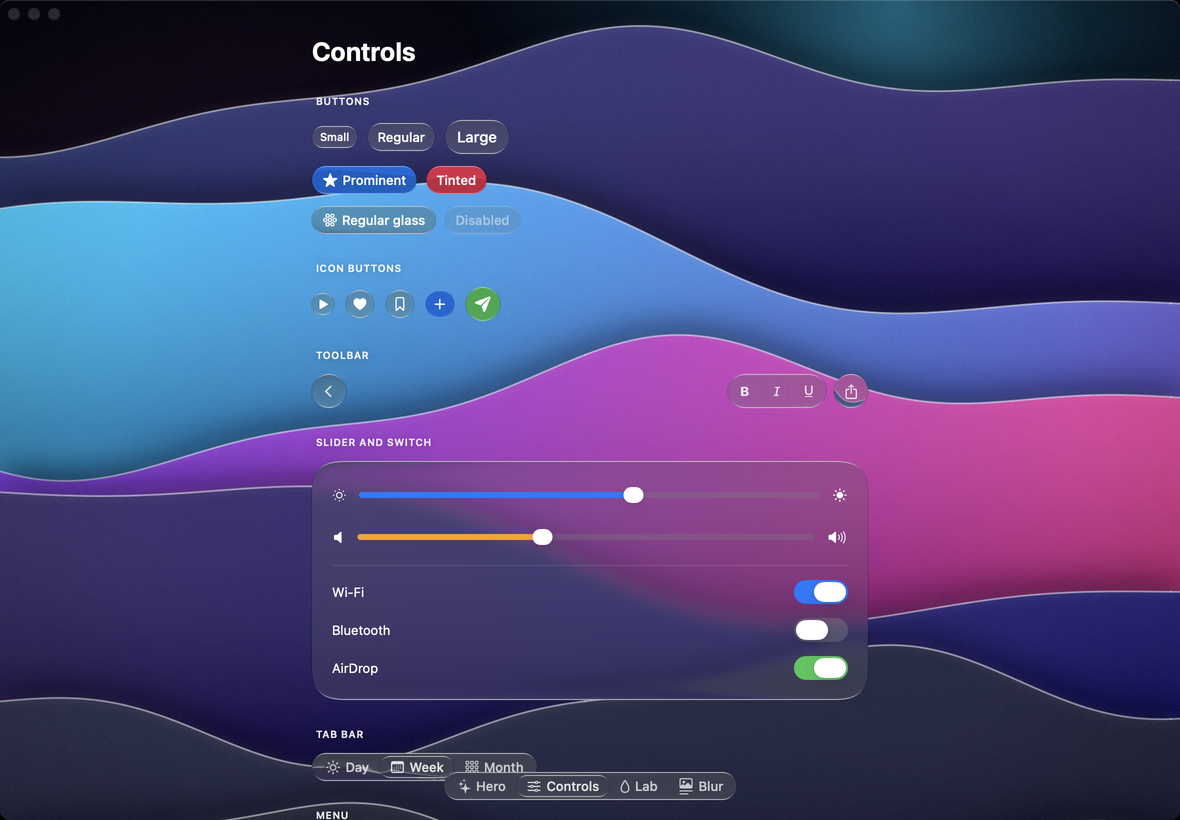
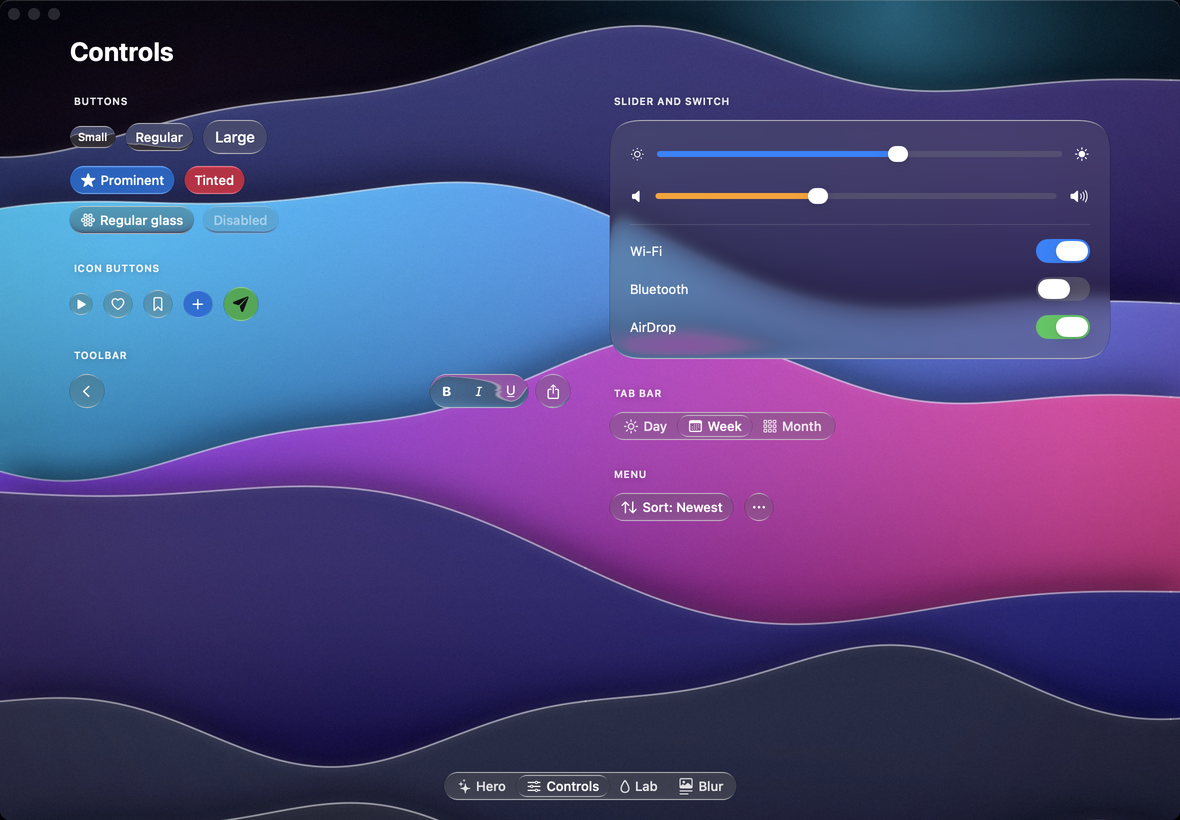
Docs: the Apple guide covers the new GlassButton options, labels on tinted glass, checked and disabled menu items, tab lenses of the bar's material, scrolls through sliders and tab bars, labelsHidden, right to left, keyboard scrolling, 120 Hz on ProMotion iPhones, animated sizes, device signing and 

diff --git a/docs/apple.md b/docs/apple.md
@@ -144,11 +144,11 @@ Label("Now Playing", systemImage: "music.note")
 | `appearance` | scene's (`.automatic`) | `.automatic`, `.light`, `.dark` |
 | `radius` | `16` | points, `.capsule` or `.circle` |
 | `refraction` | scene's (`60`) | optical travel at the rim, points |
-| `tint` | none | colors the glass, never the content |
+| `tint` | none | colors the glass; the content's default foreground turns white or `#111113`, whichever contrasts more |
 | `interactive` | `false` | press grow, drag stretch, glow |
 | `motion` | scene's (`.full`) | `.full`, `.reduced`, `.none` |
 
-Content draws above the glass, clipped to the outline, in the glass's foreground color (`#111113` on light glass, white on dark). Interactive surfaces grow under a press, stretch toward a drag with constant volume, settle with a gel-like overshoot and light up under the finger (and under the pointer on macOS and iPad). Surfaces you move yourself (with `.offset`, a `DragGesture`, layout changes or SwiftUI animations) keep refracting exactly what is under them.
+Content draws above the glass, clipped to the outline, in the glass's foreground color (`#111113` on light glass, white on dark; on tinted glass white or `#111113`, whichever has the higher contrast with the tinted glass). A `foregroundStyle` you set inside wins. Interactive surfaces grow under a press, stretch toward a drag with constant volume, settle with a gel-like overshoot and light up under the finger (and under the pointer on macOS and iPad). Surfaces you move yourself (with `.offset`, a `DragGesture`, layout changes or SwiftUI animations) keep refracting exactly what is under them, and a surface that SwiftUI animates to a new size (`withAnimation`, `.animation(_:value:)`) carries its outline and rim along the content's animated frame; without an animation the glass takes the new size at once, like the content.
 
 ### GlassButton
 
@@ -156,10 +156,15 @@ Content draws above the glass, clipped to the outline, in the glass's foreground
 GlassButton("Play", systemImage: "play.fill") { play() }
 GlassButton(icon: "plus", label: "Add") { add() }                 // icon-only circle
 GlassButton("Buy", prominent: true) { buy() }                     // accent-tinted glass, white label
-GlassButton("Delete", tint: .red) { delete() }
+GlassButton("Delete", systemImage: "trash", role: .destructive) { delete() }  // red label
+GlassButton("Warning", tint: .yellow) { }                         // dark label on light tints
 GlassButton("Frosted", material: .regular) { }
+GlassButton("Static", interactive: false) { }                     // no grow, stretch or glow
+GlassButton(icon: "xmark", label: name) { close() }               // a String label works too
 GlassButton(radius: 12, action: { }) { Text("Custom label") }     // any label, any outline
 ```
+
+Every initializer takes `role`, `material`, `appearance`, `refraction`, `tint`, `prominent`, `interactive` (default `true`) and `motion`; `nil` inherits from the scene.
 
 Sizes follow `controlSize`:
 
@@ -169,7 +174,7 @@ GlassButton("Regular") { }                        // 44 pt, 28 pt
 GlassButton("Large") { }.controlSize(.large)     // 52 pt, 34 pt
 ```
 
-Heights scale with Dynamic Type. Labels are 17 pt semibold on iOS and 13 pt medium on macOS. Icon-only buttons are circles whose title becomes the VoiceOver label and the macOS tooltip. A `GlassButton` is a SwiftUI `Button`, so `.disabled`, `.keyboardShortcut`, roles and focus work as usual.
+Heights scale with Dynamic Type. Labels are 17 pt semibold on iOS and 13 pt medium on macOS. On tinted and prominent glass the label is white or `#111113`, whichever has the higher WCAG contrast with the tinted glass: white on blue, red or purple, dark on yellow, mint or green. A destructive button draws an untinted label in red. Icon-only buttons are circles whose title becomes the VoiceOver label and the macOS tooltip. A `GlassButton` is a SwiftUI `Button`, so `.disabled`, `.keyboardShortcut`, roles and focus work as usual.
 
 ### GlassToolbar and GlassToolbarSpacer
 
@@ -184,7 +189,7 @@ GlassToolbar {
 }
 ```
 
-Each cluster sits on its own capsule (52 pt tall with a 4 pt inset on iOS, 34 and 3 on macOS). Buttons and menus inside a toolbar drop their own glass and highlight with the foreground color at 8% when pressed, hovered or focused; pressing anywhere on a cluster grows it and lights it under the finger. `GlassToolbar(material:appearance:tint:interactive:motion:)`.
+Each cluster sits on its own capsule (52 pt tall with a 4 pt inset on iOS, 34 and 3 on macOS). Buttons and menus inside a toolbar drop their own glass and highlight with the foreground color at 8% when pressed, hovered or focused; pressing anywhere on a cluster grows it and lights it under the finger. Items take the toolbar's foreground (and, under a forced `appearance`, its color scheme; on a `tint`, white or dark for contrast). At the largest text sizes the bar stops growing and a long press shows an item in the Large Content Viewer. Right to left, the clusters mirror with their items. `GlassToolbar(material:appearance:tint:interactive:motion:)`.
 
 ### GlassTabBar
 
@@ -199,7 +204,7 @@ GlassTabBar(selection: $page) {
 }
 ```
 
-A clear glass lens slides to the selected tab on the track spring and stretches with its speed; drag across the bar to carry the lens and release to choose the tab under it. On iOS the bar is 62 pt tall with icon and label, the selected item takes the accent color and labels stop growing at the largest text sizes (the Large Content Viewer shows them). `.controlSize(.small)` makes a compact, segmented-style bar (40 pt on iOS, 24 pt on macOS). On macOS the bar is 28 pt tall with labels, unselected labels at 85% and the arrow keys move the selection. Haptic selection feedback plays on change.
+A glass lens of the bar's own material (so a Regular bar stays frosted under the selection) slides to the selected tab on the track spring and stretches with its speed; drag across the bar to carry the lens and release to choose the tab under it. On touch screens the lens follows a finger only once it moves sideways, so a vertical swipe that starts on the bar still scrolls an enclosing scroll view. On iOS the bar is 62 pt tall with icon and label, the selected item takes the accent color, the bar and its labels stop growing at the largest text sizes (the Large Content Viewer shows them) and the bar carries the tab bar accessibility trait. `.controlSize(.small)` makes a compact, segmented-style bar (40 pt on iOS, 24 pt on macOS). On macOS the bar is 28 pt tall with labels, unselected labels at 85%, it draws a focus ring when it has keyboard focus and the arrow keys move the selection (in visual order, right to left too). Haptic selection feedback plays on change. `GlassTabBar(selection:material:appearance:tint:interactive:motion:)`.
 
 ### GlassSlider
 
@@ -210,7 +215,7 @@ GlassSlider(value: $volume, in: 0...100) { Text("Volume") }
 GlassSlider(value: $volume, in: 0...100, step: 10, tint: .orange) { Text("Volume") }
 ```
 
-The thumb is an opaque white capsule at rest and lifts into clear glass while held (20 × 16 pt growing 2.5 × 2 pt per side with refraction 5 on macOS; 36 × 24 pt on iOS for touch). The lifted lens refracts the track and fill beneath it and stretches along the track with its speed. Press anywhere on the track to jump there and keep dragging. Stepped sliders play a selection haptic per step. VoiceOver sees a standard adjustable slider (`accessibilityRepresentation`), and on macOS the arrow keys adjust it when focused. `onEditingChanged` reports drags.
+The thumb is an opaque white capsule at rest and lifts into clear glass while held (20 × 16 pt growing 2.5 × 2 pt per side with refraction 5 on macOS; 36 × 24 pt on iOS for touch). The lifted lens refracts the track and fill beneath it and stretches along the track with its speed. Press anywhere on the track to jump there and keep dragging; on touch screens a drag starts once the finger moves sideways, so a vertical swipe that starts on a slider scrolls the page and leaves the value alone. Stepped sliders play a selection haptic per step. VoiceOver sees a standard adjustable slider (`accessibilityRepresentation`), and on macOS the arrow keys adjust it when focused. `onEditingChanged` reports drags.
 
 ### GlassSwitch
 
@@ -222,7 +227,7 @@ GlassSwitch("AirDrop", isOn: $airdrop, tint: .green)
 Toggle("Bluetooth", isOn: $bluetooth).toggleStyle(GlassSwitchStyle())
 ```
 
-Tap to toggle or drag the thumb across. The thumb travels on the measured switch spring (response 0.47 s, damping 0.7) and lifts into clear glass while held (32 × 20 pt in a 54 × 24 pt track, growing 9 × 5.5 pt per side with refraction 7.75 on macOS; 37 × 24 in 63 × 28 on iOS). The track takes `tint` (the accent color by default) when on. It's a `Toggle`, so VoiceOver, `labelsHidden()` and focus work as usual; Space toggles it on macOS.
+Tap to toggle or drag the thumb across. The thumb travels on the measured switch spring (response 0.47 s, damping 0.7) and lifts into clear glass while held (32 × 20 pt in a 54 × 24 pt track, growing 9 × 5.5 pt per side with refraction 7.75 on macOS; 37 × 24 in 63 × 28 on iOS). The track takes `tint` (the accent color by default) when on. It's a `Toggle`, so VoiceOver and focus work as usual; Space toggles it on macOS. On iOS 18 and macOS 15, `labelsHidden()` hides the label (it stays the VoiceOver label) and the switch hugs its track; iOS 17 and macOS 14 don't tell toggle styles about hidden labels, so there the label still shows (leave the title empty and set `accessibilityLabel` instead).
 
 ### GlassMenu
 
@@ -234,12 +239,19 @@ GlassMenu("Sort", systemImage: "arrow.up.arrow.down") {
     GlassMenuItem("Reset", systemImage: "trash", role: .destructive) { reset() }
 }
 
-GlassMenu(icon: "ellipsis", label: "More") { … }   // icon-only trigger
+GlassMenu(icon: "ellipsis", label: "More") { … }   // icon-only trigger, the icon button circle
+
+GlassMenu("Appearance", systemImage: "circle.lefthalf.filled") {
+    GlassMenuItem("Light", checked: appearance == .light) { appearance = .light }
+    GlassMenuItem("Dark", checked: appearance == .dark) { appearance = .dark }
+    GlassMenuItem("Export…", systemImage: "square.and.arrow.up") { export() }
+        .disabled(!canExport)
+}
 ```
 
 ![A Regular glass menu grown out of its trigger](images/apple/ios-menu.png)
 
-The trigger is a `GlassButton`. Opening morphs the trigger's glass into a Regular glass panel (radius 28) on the morph spring while the items condense out of a blur; closing reverses it. The panel opens below the trigger with trailing edges aligned, flips above when there is no room and stays inside the scene. Items highlight with the foreground color at 8%. Tap outside, press Escape, or choose an item to dismiss; the up and down arrows and Return navigate. The panel draws in the scene's overlay, above the rest of the foreground. Outside a `GlassScene`, `GlassMenu` falls back to the system `Menu` with the same items.
+The trigger is a `GlassButton` (an icon-only trigger is the 44 pt circle on iOS, 28 pt on macOS); `appearance` and `tint` apply to the trigger and the panel. Items with `checked:` reserve a leading column and draw a checkmark when `true` (VoiceOver reads them as selected); disabled items dim and the arrow keys skip them. Opening morphs the trigger's glass into a Regular glass panel (radius 28) on the morph spring while the items condense out of a blur; closing reverses it. The panel opens below the trigger with trailing edges aligned, flips above when there is no room and stays inside the scene. Items highlight with the foreground color at 8%. Tap outside, press Escape, or choose an item to dismiss; the up and down arrows and Return navigate. The panel draws in the scene's overlay, above the rest of the foreground. Outside a `GlassScene`, `GlassMenu` falls back to the system `Menu` with the same items.
 
 ### GlassProgressiveBlur
 
@@ -275,7 +287,7 @@ GlassContent {
 GlassButton(icon: "arrow.up", label: "Top") { scroll.scrollTo(edge: .top) }
 ```
 
-A scroll view drawn entirely by SwiftUI, so glass can refract it. On iOS it scrolls with a drag, decelerates like `UIScrollView` (× 0.998 per millisecond) and rubber-bands past the ends with `GlassOptics.rubberBand`, settling back on a critically damped spring. On macOS it follows the trackpad (with the system's momentum) and the mouse wheel. `GlassScrollPosition` is `@Observable`: read `offset`, `contentSize`, `viewportSize` and `isScrolling`, or call `scrollTo(_:animated:)` and `scrollTo(edge:animated:)`. The position must live outside the content (in `@State` next to the scene) because every copy of the backdrop reads it. VoiceOver's three-finger scroll works. Content is laid out at its ideal length along the scrolling axes, so `LazyVStack` renders every row.
+A scroll view drawn entirely by SwiftUI, so glass can refract it. On iOS it scrolls with a drag, decelerates like `UIScrollView` (× 0.998 per millisecond) and rubber-bands past the ends with `GlassOptics.rubberBand`, settling back on a critically damped spring. On macOS it follows the trackpad (with the system's momentum) and the mouse wheel, takes only its own window's wheel events (an AppKit scroll view or text view in front scrolls itself), and once it has focus scrolls with the arrow keys, Page Up and Down, Space (Shift-Space up), Home and End. `GlassScrollPosition` is `@Observable`: read `offset`, `contentSize`, `viewportSize` and `isScrolling`, or call `scrollTo(_:animated:)` and `scrollTo(edge:animated:)`. The position must live outside the content (in `@State` next to the scene) because every copy of the backdrop reads it. VoiceOver's three-finger scroll works. Content is laid out at its ideal length along the scrolling axes, so `LazyVStack` renders every row.
 
 ### GlassShape
 
@@ -317,25 +329,26 @@ VStack { … }
 - **Appearance.** `.automatic` follows the color scheme. `.light` and `.dark` force the tone curves and rim strength, and set the content's color scheme, so `.primary` and `.secondary` adapt.
 - **Radius.** Numbers are continuous-corner radii; `.capsule` and `.circle` round fully.
 - **Refraction.** Points of optical travel at the rim; 0 turns refraction off. Small controls (shorter than the 20 pt bevel) refract across their whole face.
-- **Tint.** Colored glass transmits the backdrop's luminance through the pigment. Tinted buttons draw white labels. On sliders and switches, `tint` colors the fill and track.
-- **Motion.** `.full`, `.reduced` (no grow, stretch or overshoot; the light still fades) and `.none` (no transitions). The system Reduce Motion setting always applies on top.
-- **Foreground.** Text and icons on glass default to `#111113` (light) and white (dark); set your own `foregroundStyle` inside a surface to override.
+- **Tint.** Colored glass transmits the backdrop's luminance through the pigment. Text and icons on tinted glass (surfaces, buttons, bars, menus) default to white or `#111113`, whichever has the higher contrast with the tinted glass. On sliders and switches, `tint` colors the fill and track.
+- **Motion.** `.full`, `.reduced` (no grow, stretch or overshoot; the light still fades, and the tab lens, the switch thumb and the thumb's lift into glass move as critically damped transitions) and `.none` (no transitions). The system Reduce Motion setting always applies on top.
+- **Foreground.** Text and icons on glass default to `#111113` (light) and white (dark); a forced `.light` or `.dark` appearance also sets their color scheme. Set your own `foregroundStyle` inside a surface to override.
+- **Right to left.** Every component mirrors in right-to-left layouts (`layoutDirection`, Arabic, Hebrew): glass refracts what is under its mirrored position, toolbar clusters and menus mirror with their items, the tab lens follows the finger and the arrow keys in visual order, sliders fill from the right and `GlassProgressiveBlur(edge: .leading)` blurs toward the leading (right) edge.
 
 ## Accessibility
 
 - **Reduce Transparency** replaces the material with an opaque fill (`#F2F2F7` at 94% light, `#1C1C1E` at 94% dark) and keeps the rim light.
 - **Increase Contrast** switches to the Regular material and adds a one-point inner border (black 18% light, white 28% dark).
 - **Reduce Motion** removes grow, stretch and overshoot; springs become critically damped crossfades.
-- **Dynamic Type** scales button, toolbar and tab bar heights and labels; bars stop growing at the largest sizes and show the Large Content Viewer.
-- **VoiceOver.** Buttons, tabs, switches, sliders and menu items keep their roles, labels, values, selected states and actions. Icon-only buttons use their title as the label. Menus are modal and close with the escape gesture. Glass layers are hidden from accessibility.
-- **Keyboard (macOS).** Buttons and switches take focus (with Full Keyboard Access); tab bars and sliders respond to the arrow keys; menus to the arrow keys, Return and Escape; switches to Space. Focused buttons draw a ring in the glass outline's shape.
+- **Dynamic Type** scales button, toolbar and tab bar heights and labels; toolbars and tab bars stop growing (with their labels) at the largest sizes, and a long press on a toolbar item or tab shows it in the Large Content Viewer.
+- **VoiceOver.** Buttons, tabs, switches, sliders and menu items keep their roles, labels, values, selected states and actions. Icon-only buttons use their title as the label. iOS tab bars carry the tab bar trait and the selected tab the selected trait; checked menu items are selected. Menus are modal and close with the escape gesture. Glass layers are hidden from accessibility.
+- **Keyboard (macOS).** Buttons and switches take focus (with Full Keyboard Access); tab bars and sliders respond to the arrow keys; menus to the arrow keys, Return and Escape (disabled items are skipped); switches to Space; a focused `GlassScrollView` to the arrows, Page Up and Down, Space, Home and End. Focused buttons and tab bars draw a ring in the glass outline's shape.
 - **Haptics (iOS).** Tab selection and stepped sliders play selection feedback; switches play a light impact.
 
 ## Performance
 
 - Each glass surface renders one clipped copy of the backdrop plus one fragment-shader pass over its own padded bounds. Cost scales with the glass area, not the screen.
 - The Regular material adds one SwiftUI GPU blur of that copy and a 28-tap fill kernel in the shader.
-- Springs run on a display link only while something moves; idle glass costs nothing per frame. Spring values are observed with Observation, so only the glass layers and transformed content redraw during an animation, never the backdrop or your views.
+- Springs run on a display link only while something moves; idle glass costs nothing per frame. On macOS the link follows the screen of the key window, so glass animates at that display's refresh rate (120 Hz on ProMotion). On ProMotion iPhones, apps get more than 60 Hz from a display link only with `CADisableMinimumFrameDurationOnPhone` set to `YES` in their Info.plist; set it so the glass springs run at 120 Hz like system scrolling (iPad needs nothing). Spring values are observed with Observation, so only the glass layers and transformed content redraw during an animation, never the backdrop or your views.
 - `GlassScrollView` moves its content with an offset; scrolling redraws the offset, not the rows.
 - Prefer a few large surfaces to many tiny overlapping ones, keep heavy backdrops (hundreds of views) lean because each copy instantiates them, and use `GlassProgressiveBlur` sparingly (it renders six blurred copies of its strip).
 
@@ -362,7 +375,7 @@ Each copy measures its own on-screen frame at render time with `visualEffect` an
 
 ### Touches
 
-Interactive glass follows the finger without owning the touch. On iOS 18 and later a UIKit long-press recognizer with no minimum duration runs simultaneously with every other recognizer, never cancels or delays touches, and ends the press when an enclosing scroll view starts to pan; on iOS 17 and macOS, simultaneous SwiftUI drag gestures do the same job. Buttons keep their own taps and a scroll that starts on glass still scrolls (the Studio UI tests check both). On macOS, hover lights glass at the 0.35 level.
+Interactive glass follows the finger without owning the touch. On iOS 18 and later a UIKit long-press recognizer with no minimum duration runs simultaneously with every other recognizer, never cancels or delays touches, and ends the press when an enclosing scroll view starts to pan; on iOS 17 and macOS, simultaneous SwiftUI drag gestures do the same job. Buttons keep their own taps and a scroll that starts on glass still scrolls (the Studio UI tests check both). Sliders and the tab lens take a drag only once the finger moves sideways; a vertical swipe that starts on them scrolls. On macOS, hover lights glass at the 0.35 level.
 
 ### Colors and blur, measured
 
@@ -384,10 +397,10 @@ Interactive glass follows the finger without owning the touch. On iOS 18 and lat
 
 The demo app, in [`platforms/apple/Studio`](../platforms/apple/Studio), runs on iPhone, iPad and Mac:
 
-1. **Hero:** a wallpaper under a draggable Regular glass card, a floating toolbar with a menu, and the tab bar.
-2. **Controls:** buttons in every size, tinted and icon-only, a toolbar, sliders, switches, a tab bar and menus, in a native `ScrollView` over a wallpaper.
-3. **Materials lab:** live material, appearance, refraction, radius, tint and wallpaper controls for a draggable lens.
-4. **Progressive blur:** a `GlassScrollView` of stories with blurred top and bottom edges under a Regular toolbar.
+1. **Hero:** a wallpaper under a draggable Regular glass card, a floating toolbar with the appearance switch, Share (the system share sheet) and a menu with checked appearance items, and the tab bar.
+2. **Controls:** buttons in every size, tinted and icon-only, a toolbar, sliders, switches, a tab bar and menus, in a native `ScrollView` over a wallpaper (two columns on the Mac and on iPad in landscape). Content fades out as it scrolls under the status bar, over a progressive blur of the wallpaper.
+3. **Materials lab:** live material, appearance, refraction, radius, tint and wallpaper controls for a draggable lens, on a Regular glass panel with Regular pickers.
+4. **Progressive blur:** a `GlassScrollView` of stories with blurred top and bottom edges under a Regular toolbar, with a Filter menu of story categories.
 
 <p align="center">
   <img src="images/apple/ios-controls.png" width="32%" alt="Controls: glass buttons in every size, icon buttons, a toolbar, sliders and switches over a wallpaper, above a glass tab bar on iPhone">
@@ -397,7 +410,7 @@ The demo app, in [`platforms/apple/Studio`](../platforms/apple/Studio), runs on 
 
 ![Liquid Glass Studio on macOS](images/apple/macos-controls.png)
 
-Open `platforms/apple/Studio/LiquidGlassStudio.xcodeproj` in Xcode, pick the *LiquidGlassStudio* scheme and run on an iOS Simulator, a device (set your team) or *My Mac*. Launch arguments `-page hero|controls|lab|blur` and `-appearance automatic|light|dark` choose where it starts. A prebuilt macOS build is on the website's downloads page. It is ad-hoc signed and not notarized, so macOS blocks its first launch: open System Settings › Privacy & Security and click Open Anyway (on macOS 14, Control-click › Open also works), or run `xattr -dr com.apple.quarantine "/Applications/Liquid Glass Studio.app"`.
+Open `platforms/apple/Studio/LiquidGlassStudio.xcodeproj` in Xcode, pick the *LiquidGlassStudio* scheme and run on an iOS Simulator or *My Mac*; both build with the project's ad-hoc signing. To run on an iPhone or iPad, select the *LiquidGlassStudio* target, open **Signing & Capabilities**, turn on **Automatically manage signing** and choose your team (the project's manual ad-hoc identity can't sign for devices). On iPhone the Studio runs in portrait; on iPad and Mac in any orientation and window size. Launch arguments `-page hero|controls|lab|blur` and `-appearance automatic|light|dark` choose where it starts; `-AppleTextDirection YES -NSForceRightToLeftWritingDirection YES` shows it right to left. A prebuilt macOS build is on the website's downloads page. Unzip it and move *Liquid Glass Studio* to Applications first. It is ad-hoc signed and not notarized, so macOS blocks its first launch: open it once, then open System Settings › Privacy & Security and click Open Anyway (on macOS 14, Control-click › Open also works). Or, once it is in Applications, run `xattr -dr com.apple.quarantine "/Applications/Liquid Glass Studio.app"`.
 
 The Xcode project is generated from `project.yml` with [XcodeGen](https://github.com/yonaskolb/XcodeGen); after adding files run `platforms/apple/scripts/generate-project.sh`. The app icon is drawn by `platforms/apple/Studio/Scripts/make-app-icon.swift`.
 
@@ -420,8 +433,9 @@ platforms/apple/scripts/package-macos.sh DerivedData/Build/Products/Release
 
 - `OpticsVectorTests` checks the Swift port against every category of [`spec/vectors.json`](../spec/vectors.json) at 1e-4: shape parameters, all 640 field samples, the outline, edge profile, refraction offset, tone curves, material color, tint, frost, all 328 rim samples, all 57 composited glass pixels, the six springs, rubber band, stretch limit, press scale, glow and progressive weights.
 - `ShaderVectorTests` runs the Metal functions the glass shader uses (`LiquidGlassCore.h`) on the GPU in a compute kernel and checks the same vectors at the GPU tolerance, 2e-3.
-- `RenderTests` renders a real `GlassScene` with a `GlassSurface` through SwiftUI and compares the pixels with the model, checking the backdrop alignment, the color pipeline and the composite end to end.
-- `StudioUITests` drives the demo: navigation, menus (open, outside tap, choose), switches and sliders inside a scroll view, a scroll that starts on a glass button, `GlassScrollView` scrolling and a held press-and-drag.
+- `RenderTests` renders real `GlassScene`s through SwiftUI and compares every pixel of a surface (and two around it) with the model: Clear and Regular, light and dark, tinted, at 1x and 2x, off center left to right and right to left, over layered, text, narrow and empty backdrops, under an ancestor's clip, the Reduce Transparency and no-scene fallbacks and degenerate sizes. It also checks that Regular glass frosts text smoothly (also over a `GlassScrollView`), that backdrop copies render as copies, that labels follow forced appearances and tints, and that bars, menus and progressive blurs mirror right to left.
+- `BehaviorTests` covers what isn't a picture: the tab lens and switch thumb under drags, right to left and reduced motion, the press glow spring, menu keyboard navigation, drag intent (sideways drags commit, vertical ones scroll), `GlassScrollPosition` after cancelled drags, keyboard and trackpad momentum, label contrast on tints, control sizes (icon menu circles, hidden-label switches, bars at accessibility sizes and in tall rows) and the initializers.
+- `StudioUITests` drives the demo: navigation, menus (open, outside tap, choose), the stories filter, switches and sliders inside a scroll view, scrolls that start on a glass button, a slider and a tab bar (the value and the selection stay), `GlassScrollView` scrolling and a held press-and-drag.
 
 CI ([`.github/workflows/apple.yml`](../.github/workflows/apple.yml)) runs the package tests on macOS and the iOS Simulator, builds the Studio app for macOS in Release, runs its UI tests and uploads the packaged app.
 
